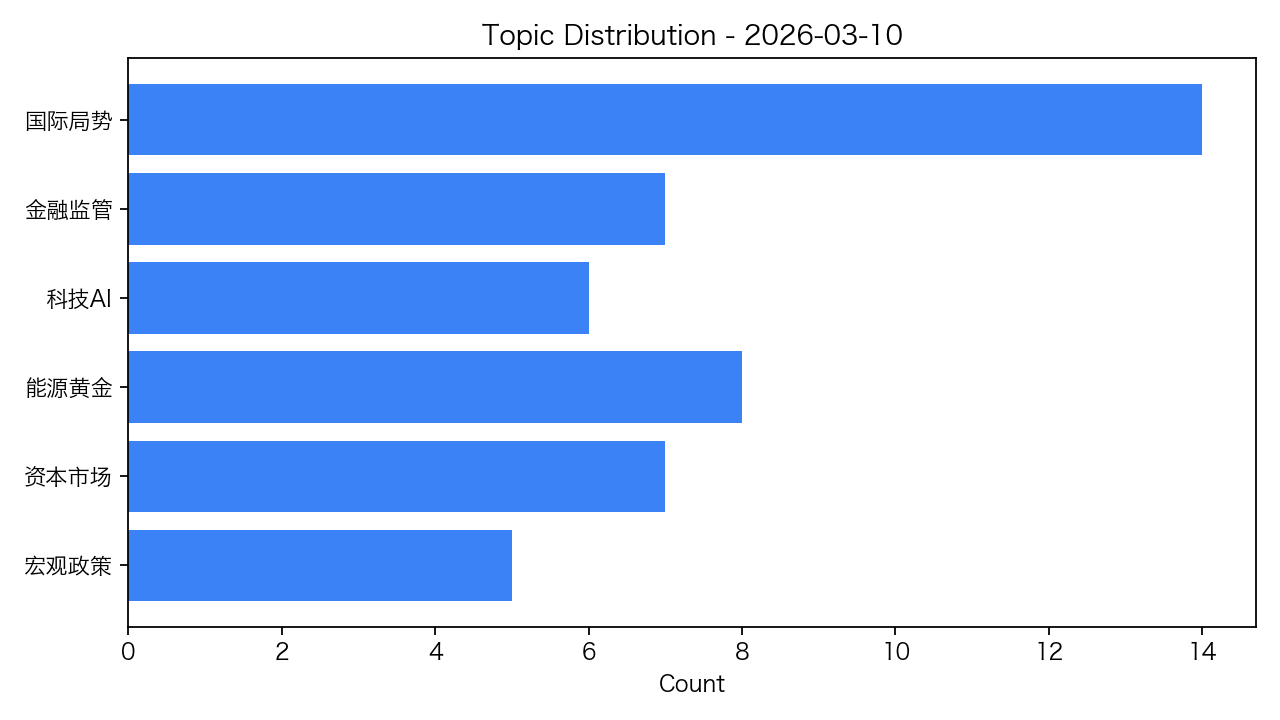
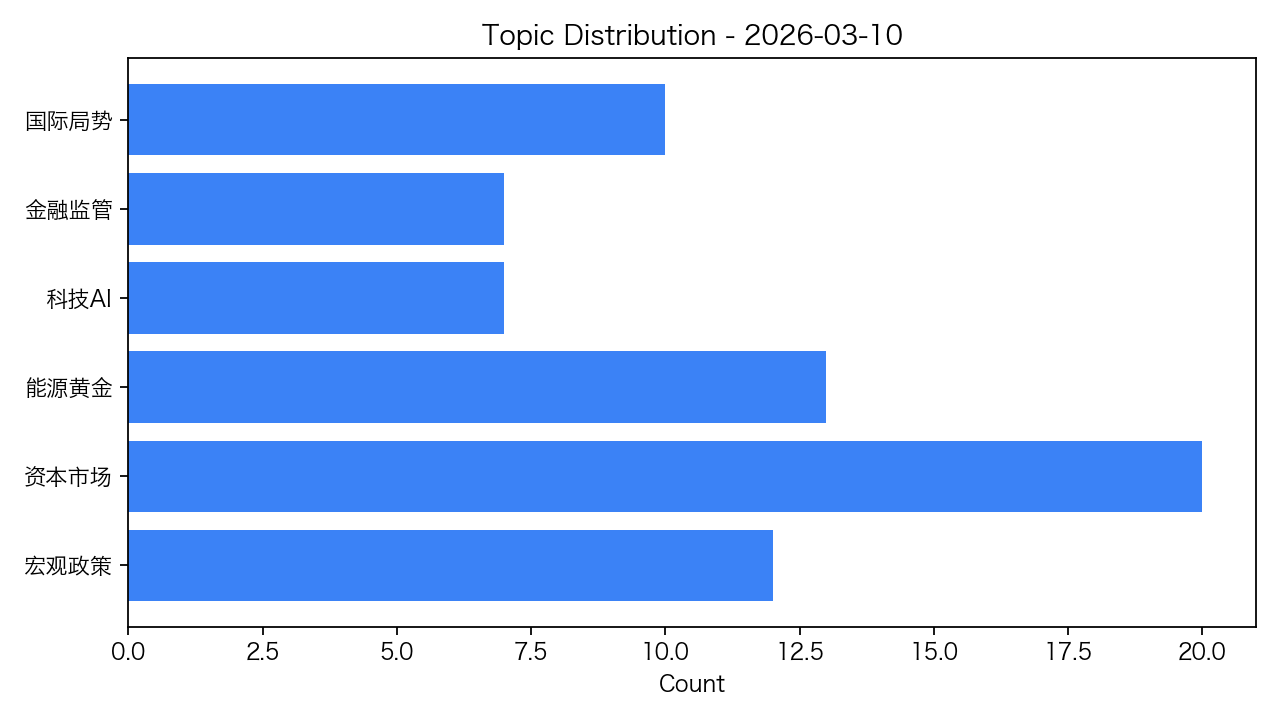
chore: auto update daily report 2026-03-10 01:03

diff --git a/docs/index.html b/docs/index.html
@@ -73,8 +73,8 @@
   <div class="card">
     <h2 data-lang="zh">今日结论</h2>
     <h2 data-lang="en">Today's Take</h2>
-    <p data-lang="zh">今日新闻情绪整体为偏谨慎，市场偏弱，关注点主要集中在国际局势、能源黄金。当前更适合作为风险情绪观察，而不是方向性预测。</p>
-    <p data-lang="en">Today's news tone is Cautious with a softer market backdrop. The main attention is concentrated in Global Geopolitics, Energy & Gold. At this stage, the dashboard is more suitable for risk-sentiment observation than directional prediction.</p>
+    <p data-lang="zh">今日市场信息面偏谨慎，负面扰动主要来自国际局势、资本市场相关线索，尤其是中东冲突、油价。沪深300/上证分别录得 -0.97% / -0.67% ，情绪读数与市场走弱方向基本一致，当前更适合作为风险偏好变化的观察面板。</p>
+    <p data-lang="en">Today's information backdrop is cautious, with downside pressure mainly linked to Global Geopolitics, Capital Markets, especially around Middle East Conflict, Oil. HS300 / SH Index moved -0.97% / -0.67%, broadly consistent with the weaker sentiment reading. At this stage, the dashboard is better used as a risk-appetite monitoring panel than a directional predictor.</p>
     <p class="muted" data-lang="zh">项目定位：用于观察财经新闻情绪与市场联动，不直接作为交易预测信号。</p>
     <p class="muted" data-lang="en">Project scope: designed for observing news sentiment and market linkage, not as a direct trading signal.</p>
   </div>
@@ -127,8 +127,8 @@
     <div class="card">
       <h2 data-lang="zh">主题分布</h2>
       <h2 data-lang="en">Topic Distribution</h2>
-      <ul data-lang="zh"><li><strong>其他</strong>: 48</li><li><strong>国际局势</strong>: 23</li><li><strong>能源黄金</strong>: 11</li><li><strong>科技AI</strong>: 8</li><li><strong>金融监管</strong>: 7</li><li><strong>资本市场</strong>: 7</li></ul>
-      <ul data-lang="en"><li><strong>Others</strong>: 48</li><li><strong>Global Geopolitics</strong>: 23</li><li><strong>Energy & Gold</strong>: 11</li><li><strong>Tech & AI</strong>: 8</li><li><strong>Financial Regulation</strong>: 7</li><li><strong>Capital Markets</strong>: 7</li></ul>
+      <ul data-lang="zh"><li><strong>国际局势</strong>: 30</li><li><strong>其他</strong>: 26</li><li><strong>资本市场</strong>: 24</li><li><strong>能源黄金</strong>: 18</li><li><strong>金融监管</strong>: 13</li><li><strong>宏观政策</strong>: 12</li></ul>
+      <ul data-lang="en"><li><strong>Global Geopolitics</strong>: 30</li><li><strong>Others</strong>: 26</li><li><strong>Capital Markets</strong>: 24</li><li><strong>Energy & Gold</strong>: 18</li><li><strong>Financial Regulation</strong>: 13</li><li><strong>Macro Policy</strong>: 12</li></ul>
     </div>
     <div class="card">
       <h2 data-lang="zh">关键词信号</h2>

diff --git a/scripts/build_report.py b/scripts/build_report.py
@@ -14,12 +14,12 @@ REPORTS_DIR.mkdir(parents=True, exist_ok=True)
 DOCS_DIR.mkdir(parents=True, exist_ok=True)
 
 TOPIC_RULES = {
-    "宏观政策": ["两会", "政府工作报告", "货币政策", "财政", "PPI", "CPI", "经济", "稳汇率"],
-    "资本市场": ["A股", "港股", "ETF", "股市", "IPO", "净买入", "回购", "涨停", "下跌"],
-    "能源黄金": ["油价", "原油", "黄金", "燃油", "天然气", "WTI"],
-    "科技AI": ["AI", "人工智能", "OpenClaw", "英伟达", "机器人", "算力", "大模型"],
-    "金融监管": ["监管", "银行", "保险", "合规", "最高法", "最高检", "证券犯罪"],
-    "国际局势": ["伊朗", "中东", "美国", "欧洲", "特朗普", "冲突", "北约"],
+    "宏观政策": ["两会", "政府工作报告", "货币政策", "财政", "PPI", "CPI", "经济", "稳汇率", "通胀", "加息", "降息", "滞胀", "财政政策", "宏观", "经济衰退"],
+    "资本市场": ["A股", "港股", "ETF", "股市", "IPO", "净买入", "回购", "涨停", "下跌", "收跌", "收涨", "基金", "市场", "交易", "上市", "股价", "美股", "纳指", "道指", "标普"],
+    "能源黄金": ["油价", "原油", "黄金", "燃油", "天然气", "WTI", "石油", "能源", "汽油", "金价", "原油储备"],
+    "科技AI": ["AI", "人工智能", "OpenClaw", "英伟达", "机器人", "算力", "大模型", "Copilot", "微软", "芯片", "半导体", "智能驾驶", "智慧交通"],
+    "金融监管": ["监管", "银行", "保险", "合规", "最高法", "最高检", "证券犯罪", "央行", "利率", "存款利率", "金融", "券商", "公募"],
+    "国际局势": ["伊朗", "中东", "美国", "欧洲", "特朗普", "冲突", "北约", "战争", "袭击", "制裁", "七国集团", "G7", "乌克兰", "俄罗斯"],
 }
 
 KEYWORD_RULES = {
@@ -346,12 +346,22 @@ def latest_available_date() -> str:
 
 
 
-def build_today_take(score: float, hs300_ret: float, topic_counts: list[tuple[str, int]]) -> tuple[str, str]:
-    filtered = [x for x in topic_counts if x[0] != '其他']
-    top_topics = '、'.join([x[0] for x in filtered[:2]]) if filtered else '综合财经信息'
-    top_topics_en = ', '.join([TOPIC_EN.get(x[0], x[0]) for x in filtered[:2]]) if filtered else 'general finance news'
-    zh = f"今日新闻情绪整体为{classify_index(score)}，市场偏弱，关注点主要集中在{top_topics}。当前更适合作为风险情绪观察，而不是方向性预测。"
-    en = f"Today's news tone is {classify_index_en(score)} with a softer market backdrop. The main attention is concentrated in {top_topics_en}. At this stage, the dashboard is more suitable for risk-sentiment observation than directional prediction."
+def build_today_take(score: float, hs300_ret: float, sh_ret: float, topic_counts: list[tuple[str, int]], keyword_counts: list[tuple[str, int]]) -> tuple[str, str]:
+    filtered_topics = [x for x in topic_counts if x[0] != '其他']
+    top_topics = '、'.join([x[0] for x in filtered_topics[:2]]) if filtered_topics else '综合财经信息'
+    top_topics_en = ', '.join([TOPIC_EN.get(x[0], x[0]) for x in filtered_topics[:2]]) if filtered_topics else 'general finance news'
+    top_keywords = '、'.join([x[0] for x in keyword_counts[:2]]) if keyword_counts else '综合因素'
+    top_keywords_en = ', '.join([KEYWORD_EN.get(x[0], x[0]) for x in keyword_counts[:2]]) if keyword_counts else 'mixed factors'
+
+    if score <= -0.12:
+        zh = f"今日市场信息面偏谨慎，负面扰动主要来自{top_topics}相关线索，尤其是{top_keywords}。沪深300/上证分别录得 {hs300_ret}% / {sh_ret}% ，情绪读数与市场走弱方向基本一致，当前更适合作为风险偏好变化的观察面板。"
+        en = f"Today's information backdrop is cautious, with downside pressure mainly linked to {top_topics_en}, especially around {top_keywords_en}. HS300 / SH Index moved {hs300_ret}% / {sh_ret}%, broadly consistent with the weaker sentiment reading. At this stage, the dashboard is better used as a risk-appetite monitoring panel than a directional predictor."
+    elif score >= 0.12:
+        zh = f"今日新闻情绪整体偏乐观，积极信号主要集中在{top_topics}，关键词上以{top_keywords}为主。沪深300/上证分别变动 {hs300_ret}% / {sh_ret}% ，可作为观察情绪改善与市场表现是否共振的轻量看板。"
+        en = f"Today's news tone is optimistic, with constructive signals mainly concentrated in {top_topics_en}, led by {top_keywords_en}. HS300 / SH Index moved {hs300_ret}% / {sh_ret}%, making the dashboard useful for observing whether improving sentiment is aligning with market performance."
+    else:
+        zh = f"今日日内信息面整体偏均衡，市场关注点集中在{top_topics}，关键词主要围绕{top_keywords}展开。沪深300/上证分别变动 {hs300_ret}% / {sh_ret}% ，当前读数更适合用于观察结构性扰动，而非直接做方向判断。"
+        en = f"Today's information flow is broadly balanced, with attention centered on {top_topics_en} and keywords led by {top_keywords_en}. HS300 / SH Index moved {hs300_ret}% / {sh_ret}%, so the current reading is better interpreted as a view on structural risk tone rather than a direct directional signal."
     return zh, en
 
 def main() -> None:
@@ -376,7 +386,7 @@ def main() -> None:
     sh_ret = calc_return(market['sh_index'])
     linkage_text = market_linkage_comment(score, hs300_ret, sh_ret, len(history))
     linkage_text_en = market_linkage_comment_en(score, hs300_ret, sh_ret, len(history))
-    today_take_zh, today_take_en = build_today_take(score, hs300_ret, topic_counts)
+    today_take_zh, today_take_en = build_today_take(score, hs300_ret, sh_ret, topic_counts, keyword_counts)
 
     report = f"""# Daily Financial Sentiment Report - {today}\n\n## 1. Daily Sentiment Snapshot\n- Total cleaned news items: {sentiment['count']}\n- Dropped noisy items: {clean.get('dropped_count', 0)}\n- Daily sentiment index: {score}\n- Daily tone: {tone}\n- Label counts: {sentiment['label_counts']}\n- HS300 daily return: {hs300_ret}%\n- SH Index daily return: {sh_ret}%\n\n## 2. Sentiment-Market Linkage\n- {linkage_text}\n\n## 3. Topic Distribution\n"""
     for topic, count in topic_counts[:6]:
@@ -397,7 +407,9 @@ def main() -> None:
     report += "\n## 8. Visual Assets\n"
     report += "- label_distribution.png\n- topic_distribution.png\n- sentiment_history.png\n- sentiment_vs_hs300_history.png\n"
     report += "\n## 9. Brief Comment\n"
-    report += f"Today's sentiment reading is {tone}. Key topics are concentrated in {', '.join([x[0] for x in topic_counts[:3]]) if topic_counts else 'general finance news'}. {linkage_text}\n"
+    report += f"- CN: {today_take_zh}\n"
+    report += f"- EN: {today_take_en}\n"
+    report += f"- Linkage: {linkage_text}\n"
 
     report_path = REPORTS_DIR / f"{today}.md"
     latest_path = DOCS_DIR / "latest.md"

diff --git a/scripts/build_charts.py b/scripts/build_charts.py
@@ -69,12 +69,12 @@ def plot_label_distribution(today: str, sentiment: dict) -> str:
 
 def plot_topic_distribution(today: str, sentiment: dict) -> str:
     topic_rules = {
-        "宏观政策": ["两会", "政府工作报告", "货币政策", "财政", "PPI", "CPI", "经济", "稳汇率"],
-        "资本市场": ["A股", "港股", "ETF", "股市", "IPO", "净买入", "回购", "涨停", "下跌"],
-        "能源黄金": ["油价", "原油", "黄金", "燃油", "天然气", "WTI"],
-        "科技AI": ["AI", "人工智能", "OpenClaw", "英伟达", "机器人", "算力", "大模型"],
-        "金融监管": ["监管", "银行", "保险", "合规", "最高法", "最高检", "证券犯罪"],
-        "国际局势": ["伊朗", "中东", "美国", "欧洲", "特朗普", "冲突", "北约"],
+        "宏观政策": ["两会", "政府工作报告", "货币政策", "财政", "PPI", "CPI", "经济", "稳汇率", "通胀", "加息", "降息", "滞胀", "财政政策", "宏观", "经济衰退"],
+        "资本市场": ["A股", "港股", "ETF", "股市", "IPO", "净买入", "回购", "涨停", "下跌", "收跌", "收涨", "基金", "市场", "交易", "上市", "股价", "美股", "纳指", "道指", "标普"],
+        "能源黄金": ["油价", "原油", "黄金", "燃油", "天然气", "WTI", "石油", "能源", "汽油", "金价", "原油储备"],
+        "科技AI": ["AI", "人工智能", "OpenClaw", "英伟达", "机器人", "算力", "大模型", "Copilot", "微软", "芯片", "半导体", "智能驾驶", "智慧交通"],
+        "金融监管": ["监管", "银行", "保险", "合规", "最高法", "最高检", "证券犯罪", "央行", "利率", "存款利率", "金融", "券商", "公募"],
+        "国际局势": ["伊朗", "中东", "美国", "欧洲", "特朗普", "冲突", "北约", "战争", "袭击", "制裁", "七国集团", "G7", "乌克兰", "俄罗斯"],
     }
     counts = {k: 0 for k in topic_rules}
     for item in sentiment["items"]:

diff --git a/docs/latest.md b/docs/latest.md
@@ -13,12 +13,12 @@
 - 当日新闻情绪为偏谨慎，沪深300与上证指数分别下跌 0.97% / 0.67%，情绪与市场方向大体一致。当前历史样本较短，后续需继续积累。
 
 ## 3. Topic Distribution
-- 其他: 48
-- 国际局势: 23
-- 能源黄金: 11
-- 科技AI: 8
-- 金融监管: 7
-- 资本市场: 7
+- 国际局势: 30
+- 其他: 26
+- 资本市场: 24
+- 能源黄金: 18
+- 金融监管: 13
+- 宏观政策: 12
 
 ## 4. Keyword Signals
 - 中东冲突: 12
@@ -56,4 +56,6 @@
 - sentiment_vs_hs300_history.png
 
 ## 9. Brief Comment
-Today's sentiment reading is 偏谨慎. Key topics are concentrated in 其他, 国际局势, 能源黄金. 当日新闻情绪为偏谨慎，沪深300与上证指数分别下跌 0.97% / 0.67%，情绪与市场方向大体一致。当前历史样本较短，后续需继续积累。
+- CN: 今日市场信息面偏谨慎，负面扰动主要来自国际局势、资本市场相关线索，尤其是中东冲突、油价。沪深300/上证分别录得 -0.97% / -0.67% ，情绪读数与市场走弱方向基本一致，当前更适合作为风险偏好变化的观察面板。
+- EN: Today's information backdrop is cautious, with downside pressure mainly linked to Global Geopolitics, Capital Markets, especially around Middle East Conflict, Oil. HS300 / SH Index moved -0.97% / -0.67%, broadly consistent with the weaker sentiment reading. At this stage, the dashboard is better used as a risk-appetite monitoring panel than a directional predictor.
+- Linkage: 当日新闻情绪为偏谨慎，沪深300与上证指数分别下跌 0.97% / 0.67%，情绪与市场方向大体一致。当前历史样本较短，后续需继续积累。

diff --git a/reports/2026-03-10.md b/reports/2026-03-10.md
@@ -13,12 +13,12 @@
 - 当日新闻情绪为偏谨慎，沪深300与上证指数分别下跌 0.97% / 0.67%，情绪与市场方向大体一致。当前历史样本较短，后续需继续积累。
 
 ## 3. Topic Distribution
-- 其他: 48
-- 国际局势: 23
-- 能源黄金: 11
-- 科技AI: 8
-- 金融监管: 7
-- 资本市场: 7
+- 国际局势: 30
+- 其他: 26
+- 资本市场: 24
+- 能源黄金: 18
+- 金融监管: 13
+- 宏观政策: 12
 
 ## 4. Keyword Signals
 - 中东冲突: 12
@@ -56,4 +56,6 @@
 - sentiment_vs_hs300_history.png
 
 ## 9. Brief Comment
-Today's sentiment reading is 偏谨慎. Key topics are concentrated in 其他, 国际局势, 能源黄金. 当日新闻情绪为偏谨慎，沪深300与上证指数分别下跌 0.97% / 0.67%，情绪与市场方向大体一致。当前历史样本较短，后续需继续积累。
+- CN: 今日市场信息面偏谨慎，负面扰动主要来自国际局势、资本市场相关线索，尤其是中东冲突、油价。沪深300/上证分别录得 -0.97% / -0.67% ，情绪读数与市场走弱方向基本一致，当前更适合作为风险偏好变化的观察面板。
+- EN: Today's information backdrop is cautious, with downside pressure mainly linked to Global Geopolitics, Capital Markets, especially around Middle East Conflict, Oil. HS300 / SH Index moved -0.97% / -0.67%, broadly consistent with the weaker sentiment reading. At this stage, the dashboard is better used as a risk-appetite monitoring panel than a directional predictor.
+- Linkage: 当日新闻情绪为偏谨慎，沪深300与上证指数分别下跌 0.97% / 0.67%，情绪与市场方向大体一致。当前历史样本较短，后续需继续积累。
